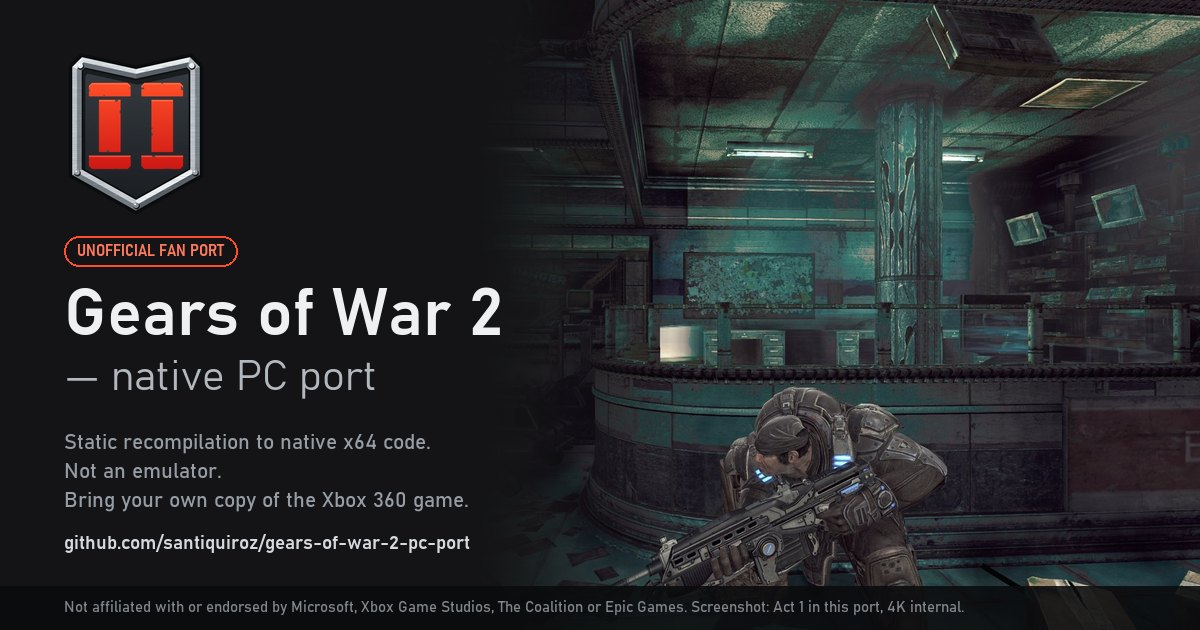
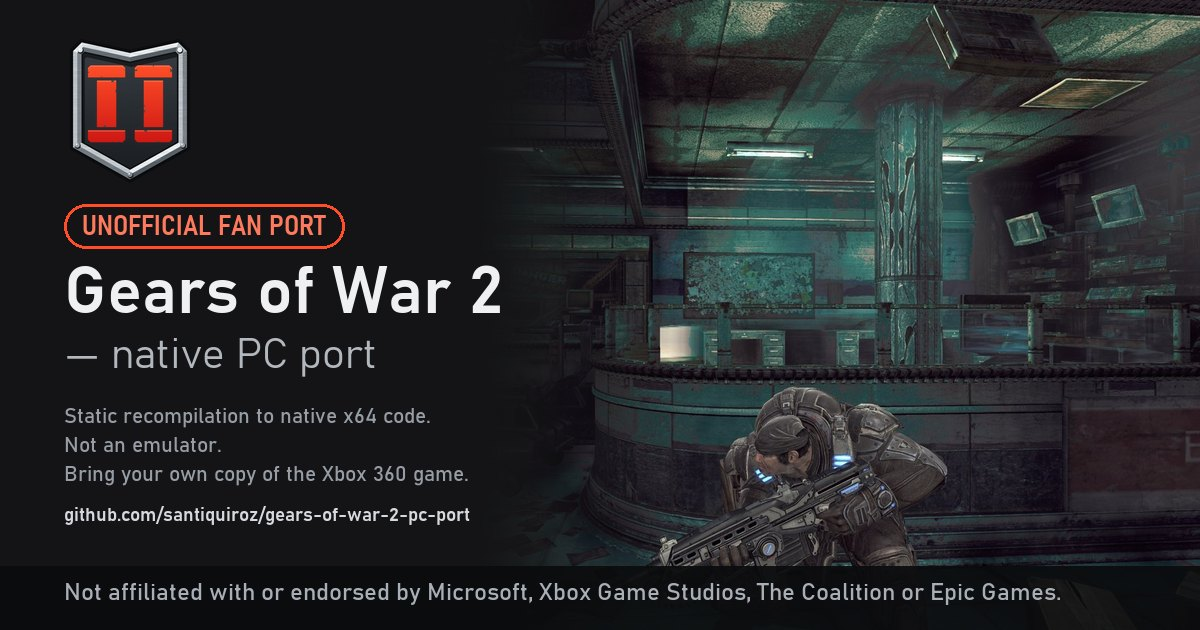
feat(brand): Spanish social card, and the unofficial notice readable at feed size
icon_sheets.py renders the card in English and Spanish (og-image-es-1200x630.png). The tag pill grows from 17 to 28 px and the not-affiliated notice from 15 to 24 px in #a9afb6, above the bottom 15 px that a feed can crop when it fits 1.91:1 into 2:1; the screenshot credit leaves the card, the site footer carries it.

tools/site_assets.py replaces the untracked out/brand/site/build_assets.py: it rebuilds docs/assets from docs/screenshots and assets/icon, now with og-image-es.jpg. Run on this tree it rewrites every existing WebP and icon byte for byte; only the two cards change.

assets/icon/README.md: the README header never showed the icon, the mono SVG is for dark backgrounds only, and the license note names both cards, their website copies and the screenshot WebPs.

Changed region(s): [[0.0308, 0.0603, 0.4317, 0.8746], [0.0308, 0.8746, 1.0, 0.9952]]

diff --git a/assets/icon/icon_sheets.py b/assets/icon/icon_sheets.py
@@ -21,7 +21,22 @@ REPO_DIR = Path(__file__).resolve().parents[2]
 SCREENSHOT = REPO_DIR / "docs" / "screenshots" / "act1-4k-internal.jpg"
 FONT_PATH = Path(r"C:\Windows\Fonts\bahnschrift.ttf")
 OG_SIZE = (1200, 630)
-OG_BODY = ("Static recompilation to native x64 code.", "Not an emulator.", "Bring your own copy of the Xbox 360 game.")
+OG_TEXT = {
+    "en": {
+        "tag": "UNOFFICIAL FAN PORT",
+        "subtitle": "— native PC port",
+        "body": ("Static recompilation to native x64 code.", "Not an emulator.", "Bring your own copy of the Xbox 360 game."),
+        "notice": "Not affiliated with or endorsed by Microsoft, Xbox Game Studios, The Coalition or Epic Games.",
+    },
+    "es": {
+        "tag": "PORT NO OFICIAL",
+        "subtitle": "— port nativo para PC",
+        "body": ("Recompilación estática a código nativo x64.", "No es un emulador.", "Usa tu propia copia del juego de Xbox 360."),
+        "notice": "Sin afiliación ni respaldo de Microsoft, Xbox Game Studios, The Coalition o Epic Games.",
+    },
+}
+OG_NOTICE_BAND = 64
+OG_NOTICE_SIZES = (24, 23, 22)
 
 
 # ---- Open Graph image ----
@@ -48,41 +63,51 @@ def screenshot_panel(width, height):
 
 
 def draw_tag(draw, xy, text):
-    face = font(17, "SemiBold SemiCondensed")
+    face = font(28, "SemiBold SemiCondensed")
     x, y = xy
-    width = face.getlength(text) + 26
-    draw.rounded_rectangle([x, y, x + width, y + 30], radius=15, outline=HOT_TOP, width=2)
-    draw.text((x + 13, y + 15), text, font=face, fill=(255, 122, 92), anchor="lm")
+    width = face.getlength(text) + 36
+    draw.rounded_rectangle([x, y, x + width, y + 44], radius=22, outline=HOT_TOP, width=3)
+    draw.text((x + 18, y + 22), text, font=face, fill=(255, 122, 92), anchor="lm")
 
 
-def og_text(draw, left):
-    draw_tag(draw, (left, 236), "UNOFFICIAL FAN PORT")
-    draw.text((left, 282), "Gears of War 2", font=font(66, "SemiBold"), fill=(238, 240, 242))
-    draw.text((left, 356), "\u2014 native PC port", font=font(42, "Light"), fill=(178, 184, 190))
-    y = 432
-    for line in OG_BODY:
+def og_text(draw, left, text):
+    draw_tag(draw, (left, 204), text["tag"])
+    draw.text((left, 260), "Gears of War 2", font=font(66, "SemiBold"), fill=(238, 240, 242))
+    draw.text((left, 334), text["subtitle"], font=font(42, "Light"), fill=(178, 184, 190))
+    y = 406
+    for line in text["body"]:
         draw.text((left, y), line, font=font(21), fill=(150, 157, 164))
         y += 29
-    draw.text((left, y + 14), "github.com/santiquiroz/gears-of-war-2-pc-port", font=font(19, "SemiBold"), fill=(214, 218, 222))
+    draw.text((left, y + 12), "github.com/santiquiroz/gears-of-war-2-pc-port", font=font(19, "SemiBold"), fill=(214, 218, 222))
 
 
-def og_footer(image):
+def notice_font(notice, max_width):
+    for size in OG_NOTICE_SIZES:
+        face = font(size)
+        if face.getlength(notice) <= max_width:
+            return face
+    raise SystemExit(f"social card notice does not fit in {max_width} px at {OG_NOTICE_SIZES[-1]} px: {notice}")
+
+
+# The notice stays clear of the bottom 15 px, which a feed may crop when it fits 1.91:1 into 2:1.
+def og_footer(image, notice):
     w, h = image.size
-    band = Image.new("RGBA", (w, 44), (10, 11, 13, 225))
-    image.alpha_composite(band, (0, h - 44))
-    notice = "Not affiliated with or endorsed by Microsoft, Xbox Game Studios, The Coalition or Epic Games. Screenshot: Act 1 in this port, 4K internal."
-    ImageDraw.Draw(image).text((64, h - 22), notice, font=font(15), fill=(128, 134, 140), anchor="lm")
+    band = Image.new("RGBA", (w, OG_NOTICE_BAND), (10, 11, 13, 235))
+    image.alpha_composite(band, (0, h - OG_NOTICE_BAND))
+    face = notice_font(notice, w - 2 * 64)
+    ImageDraw.Draw(image).text((64, h - 38), notice, font=face, fill=(169, 175, 182), anchor="lm")
 
 
-def og_image(master):
+def og_image(master, lang="en"):
+    text = OG_TEXT[lang]
     w, h = OG_SIZE
     image = Image.new("RGBA", OG_SIZE, (20, 20, 22, 255))
     panel_x = 470
     panel = screenshot_panel(w - panel_x, h).convert("RGBA")
     image.paste(panel, (panel_x, 0), horizontal_ramp(w - panel_x, h, 0, 230))
-    image.alpha_composite(master.resize((168, 168), Image.LANCZOS), (52, 50))
-    og_text(ImageDraw.Draw(image), 64)
-    og_footer(image)
+    image.alpha_composite(master.resize((150, 150), Image.LANCZOS), (55, 36))
+    og_text(ImageDraw.Draw(image), 64, text)
+    og_footer(image, text["notice"])
     return image.convert("RGB")
 
 

diff --git a/tools/site_assets.py b/tools/site_assets.py
@@ -1,0 +1,75 @@
+# Rebuilds docs/assets (the website's images and icons) from docs/screenshots and assets/icon.
+# Run after render_icon.py or after a screenshot changes: python tools/site_assets.py
+import shutil
+import sys
+from pathlib import Path
+
+from PIL import Image
+
+REPO = Path(__file__).resolve().parents[1]
+SHOT_WIDTHS = {
+    "act1-4k-internal": (1600, 960),
+    "act1-jacintomed": (1600, 800),
+    "main-menu": (1200, 640),
+    "title": (1200, 640),
+    "scale-1x-vs-3x": (1416, 760),
+    "texture-pack-test": (1280, 640),
+}
+OG_CARDS = {"og-image-1200x630.png": "og-image.jpg", "og-image-es-1200x630.png": "og-image-es.jpg"}
+
+
+def resized(img, width):
+    if img.width <= width:
+        return img
+    height = round(img.height * width / img.width)
+    return img.resize((width, height), Image.LANCZOS)
+
+
+def write_webp(img, path, quality):
+    img.save(path, "WEBP", quality=quality, method=6)
+    return path
+
+
+def build_screenshots(repo):
+    shots = repo / "docs" / "screenshots"
+    img_dir = repo / "docs" / "assets" / "img"
+    for name, widths in SHOT_WIDTHS.items():
+        src = Image.open(shots / f"{name}.jpg").convert("RGB")
+        for width in widths:
+            img = resized(src, width)
+            write_webp(img, img_dir / f"{name}-{img.width}.webp", 80)
+
+
+def build_icons(repo):
+    icon = repo / "assets" / "icon"
+    out = repo / "docs" / "assets"
+    shutil.copyfile(icon / "favicon.ico", out / "favicon.ico")
+    shutil.copyfile(icon / "favicon-180.png", out / "apple-touch-icon.png")
+    shutil.copyfile(icon / "gow2-icon-flat.svg", out / "icon.svg")
+    master = Image.open(icon / "gow2-icon-1024.png").convert("RGBA")
+    write_webp(master.resize((320, 320), Image.LANCZOS), out / "img" / "icon-320.webp", 88)
+
+
+def build_og_images(repo):
+    for card, jpg in OG_CARDS.items():
+        og = Image.open(repo / "assets" / "icon" / card).convert("RGB")
+        og.save(repo / "docs" / "assets" / jpg, "JPEG", quality=86, optimize=True, progressive=True)
+
+
+def list_outputs(repo):
+    for f in sorted((repo / "docs" / "assets").rglob("*")):
+        if f.is_file():
+            print(f"{f.relative_to(repo).as_posix()}  {f.stat().st_size // 1024} KB")
+
+
+def main(argv):
+    repo = Path(argv[0]).resolve() if argv else REPO
+    build_screenshots(repo)
+    build_icons(repo)
+    build_og_images(repo)
+    list_outputs(repo)
+    return 0
+
+
+if __name__ == "__main__":
+    sys.exit(main(sys.argv[1:]))

diff --git a/assets/icon/render_icon.py b/assets/icon/render_icon.py
@@ -102,7 +102,8 @@ def write_vectors(written):
 
 
 def write_og(master, written):
-    save(og_image(master), ICON_DIR / "og-image-1200x630.png", written, optimize=True)
+    save(og_image(master, "en"), ICON_DIR / "og-image-1200x630.png", written, optimize=True)
+    save(og_image(master, "es"), ICON_DIR / "og-image-es-1200x630.png", written, optimize=True)
 
 
 def parse_args(argv):

diff --git a/assets/icon/README.md b/assets/icon/README.md
@@ -6,7 +6,7 @@ numeral II sprayed through a stencil in orange-red. It is plain geometry drawn b
 like the Crimson Omen, no logotype and no traced artwork from the game.
 
 Gears of War is a trademark of Microsoft. The icon never shows the name. Wherever the icon
-appears with the name (README header, release page, store listing, social card), the name is
+appears with the name (release page, store listing, social card, website), the name is
 plain text and the "unofficial, not affiliated with Microsoft, Xbox Game Studios, The Coalition
 or Epic Games" notice goes with it.
 
@@ -20,8 +20,9 @@ or Epic Games" notice goes with it.
 | `favicon-32.png` | PNG favicon |
 | `favicon-180.png` | `apple-touch-icon`, opaque on the background colour |
 | `gow2-icon-flat.svg` | Flat vector: steel rim, flat red, no texture. For SVG favicons and badges on busy or mid-tone backgrounds |
-| `gow2-icon-mono.svg` | Single-colour vector: light shield with the II knocked out |
-| `og-image-1200x630.png` | Open Graph / social preview card (GitHub: Settings > Social preview) |
+| `gow2-icon-mono.svg` | Single-colour vector: light shield (`#E8ECEF`) with the II knocked out. For dark backgrounds only; on light ones use `gow2-icon-flat.svg` |
+| `og-image-1200x630.png` | Open Graph / social preview card in English (GitHub: Settings > Social preview; the website's `docs/assets/og-image.jpg`) |
+| `og-image-es-1200x630.png` | The same card in Spanish (the website's `docs/assets/og-image-es.jpg`) |
 | `android/` | Android launcher icons, laid out like `res/` (see below) |
 
 The 16, 20, 24, 32, 40 and 48 px frames are drawn on whole pixels by hand-fitted layouts in
@@ -69,7 +70,11 @@ same icon to the game window, so the title bar and taskbar match the file.
 ```text
 python assets/icon/render_icon.py
 python assets/icon/render_icon.py --preview out/brand/final
+python tools/site_assets.py
 ```
+
+`tools/site_assets.py` then copies the favicons and the social cards into the website
+(`docs/assets`) and rebuilds its WebP screenshots.
 
 Needs Python 3 with Pillow and NumPy (`pip install pillow numpy`; tested with Python 3.11,
 Pillow 10.4 and NumPy 2.4), on Windows for the font (see below). Every file listed above is rewritten from scratch, and the output is
@@ -92,10 +97,13 @@ The icon is original work for this project and is covered by the repository's BS
 license (see `LICENSE` at the root). That covers the mark and every file here that contains only
 the mark: the PNG, ICO and SVG icons and the Android layers.
 
-`og-image-1200x630.png` also contains two things that are not covered by that license:
+The social cards (`og-image-1200x630.png`, `og-image-es-1200x630.png`) and their website copies
+(`docs/assets/og-image.jpg`, `docs/assets/og-image-es.jpg`) also contain two things that are not
+covered by that license; the website's screenshot images (`docs/screenshots/*.jpg` and every
+`docs/assets/img/*.webp` except `icon-320.webp`) contain the first:
 
-- A screenshot of the game running in this port (`docs/screenshots/act1-4k-internal.jpg`). The
-  game's content belongs to its owners.
+- A screenshot of the game running in this port (`docs/screenshots/act1-4k-internal.jpg`). Gears
+  of War 2 content is © Microsoft Corporation (originally © 2008 Epic Games, Inc.).
 - Text set in Bahnschrift, a Microsoft font that ships with Windows 10 and 11
   (`C:\Windows\Fonts\bahnschrift.ttf`). The font file is not part of this repository and is not
   redistributed; only the rendered text is. Bahnschrift is licensed by Microsoft with Windows,
